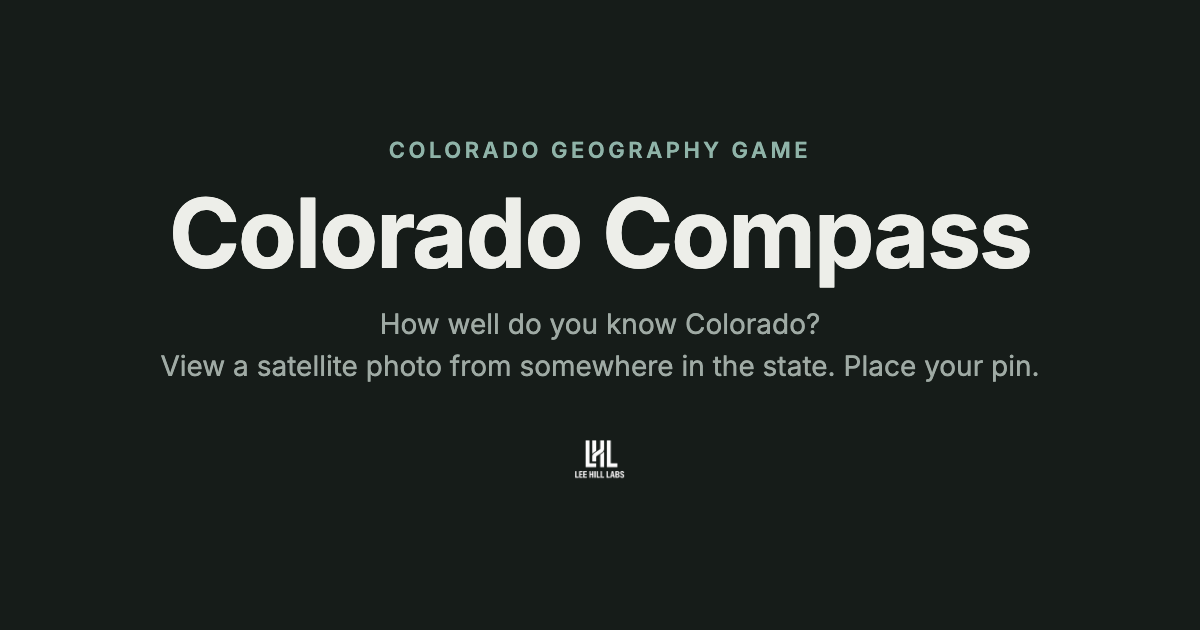
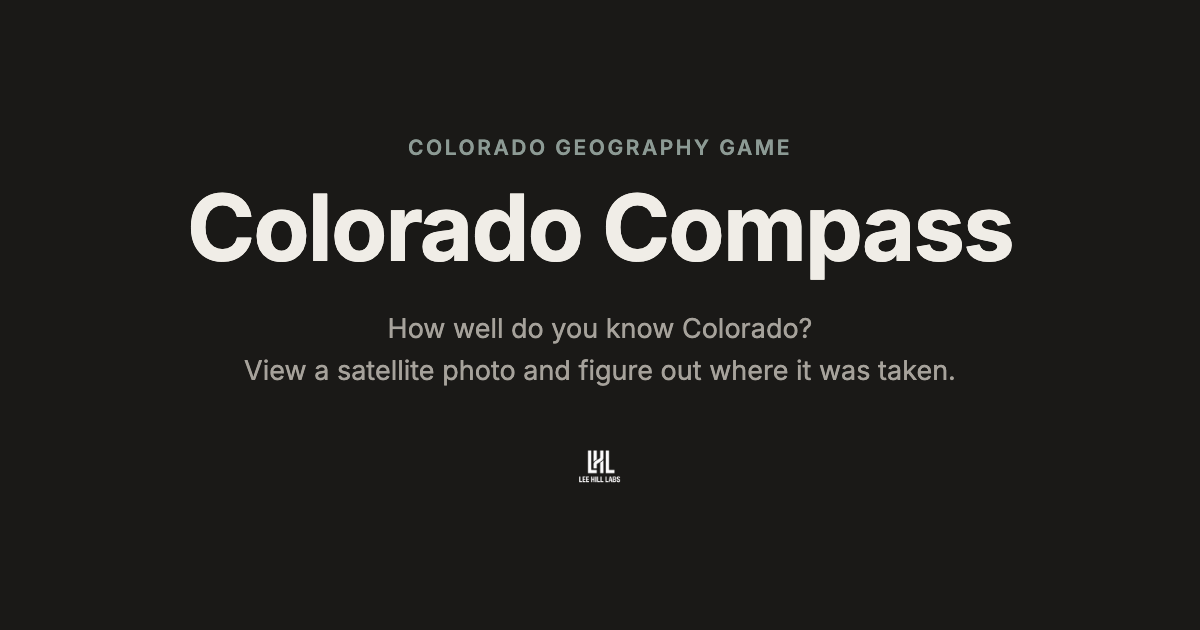
Align dark mode and preview image with the LHL design system
Replace the hand-derived dark palette with the design system's approved
dark theme (warm charcoal neutrals, desaturated teal). Re-render
og-image.png on the new palette with the current site tagline.

diff --git a/index.html b/index.html
@@ -52,9 +52,9 @@
   }
   @media (prefers-color-scheme: dark){
     :root:not([data-theme="light"]){
-      --bg:#161C19; --surface:#1E2622; --surface-2:#22302A;
-      --text:#EDEEE9; --text-muted:#9FAAA4;
-      --rust:#D2703F; --spruce:#5FA697; --spruce-hover:#7BBBAD; --eyebrow:#8FB3A8; --gold:#E3B75E; --border:#33403A;
+      --bg:#1A1917; --surface:#221F1A; --surface-2:#2A2620;
+      --text:#F0EDE7; --text-muted:#A6A29B;
+      --rust:#D2703F; --spruce:#5C9C8C; --spruce-hover:#72AC9D; --eyebrow:#8C9A94; --gold:#E3B75E; --border:#302E2A;
     }
   }
   *{box-sizing:border-box;}

diff --git a/DEVLOG.md b/DEVLOG.md
@@ -306,6 +306,22 @@ company logo.
   `prefers-color-scheme: dark` query the rest of the theme uses, rather than shipping a second
   logo asset.
 
+## Dark mode aligned to the LHL design system
+
+LHL now has a canonical, approved dark theme (Lee Hill Labs design system), so Compass's
+hand-derived dark palette above was replaced with its values: warm charcoal neutrals instead of
+the green-tinted near-black (`--bg #1A1917`, `--surface #221F1A`, `--surface-2 #2A2620`,
+`--border #302E2A`), `--text #F0EDE7` / `--text-muted #A6A29B` / `--eyebrow #8C9A94`, and a
+desaturated teal (`--spruce #5C9C8C`, hover `#72AC9D`). Light mode was already an exact match.
+`--rust` and `--gold` are Compass-only accents and stay as they were; both still clear 4.5:1
+against the new backgrounds.
+
+- `assets/og-image.png` re-rendered (headless Chrome, 1200×630) on the new dark palette. Its
+  second tagline line now matches the site's ("View a satellite photo and figure out where it
+  was taken.") since "Place your pin" no longer describes Easy mode.
+- Known gap: white button text on `--spruce` in dark mode is 3.2:1 (was 2.8:1 before), still
+  under 4.5:1 for 16px text.
+
 ## Possible next steps (not yet done)
 
 - Grow the location pool further if repeats start feeling too frequent.
